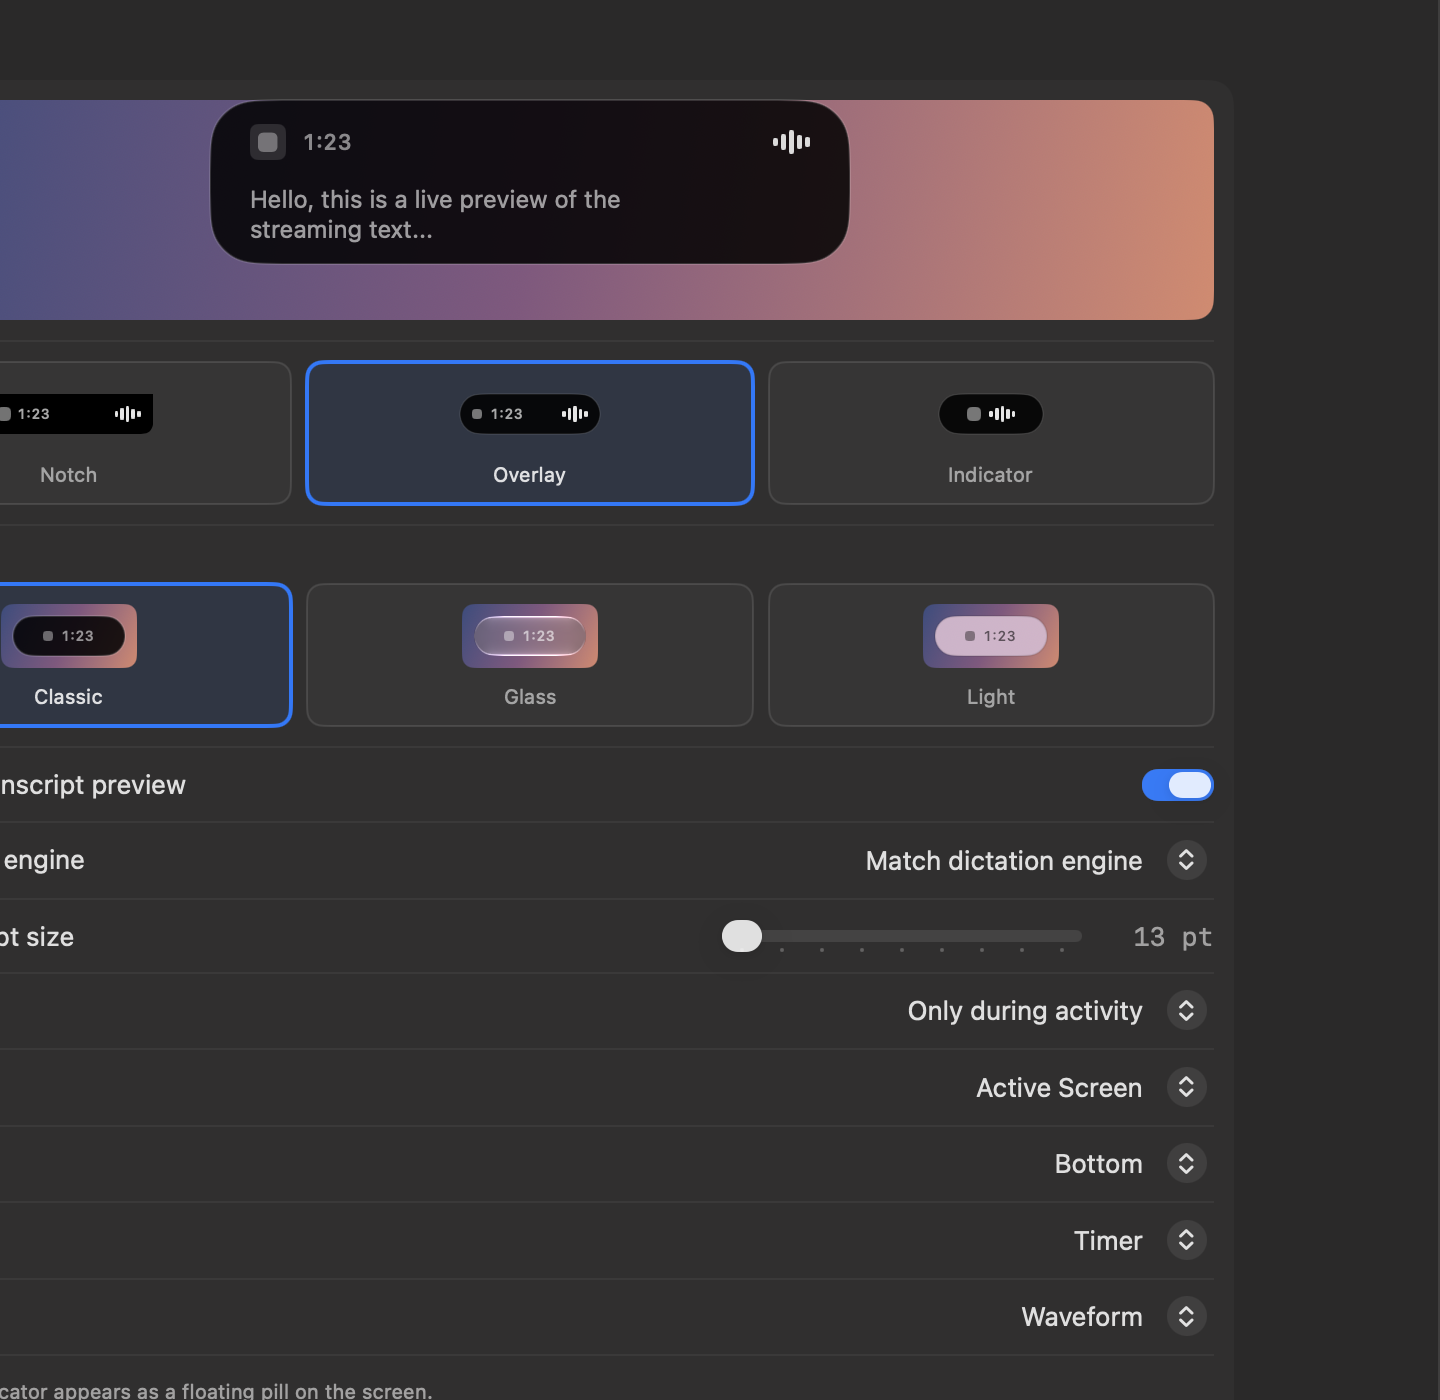
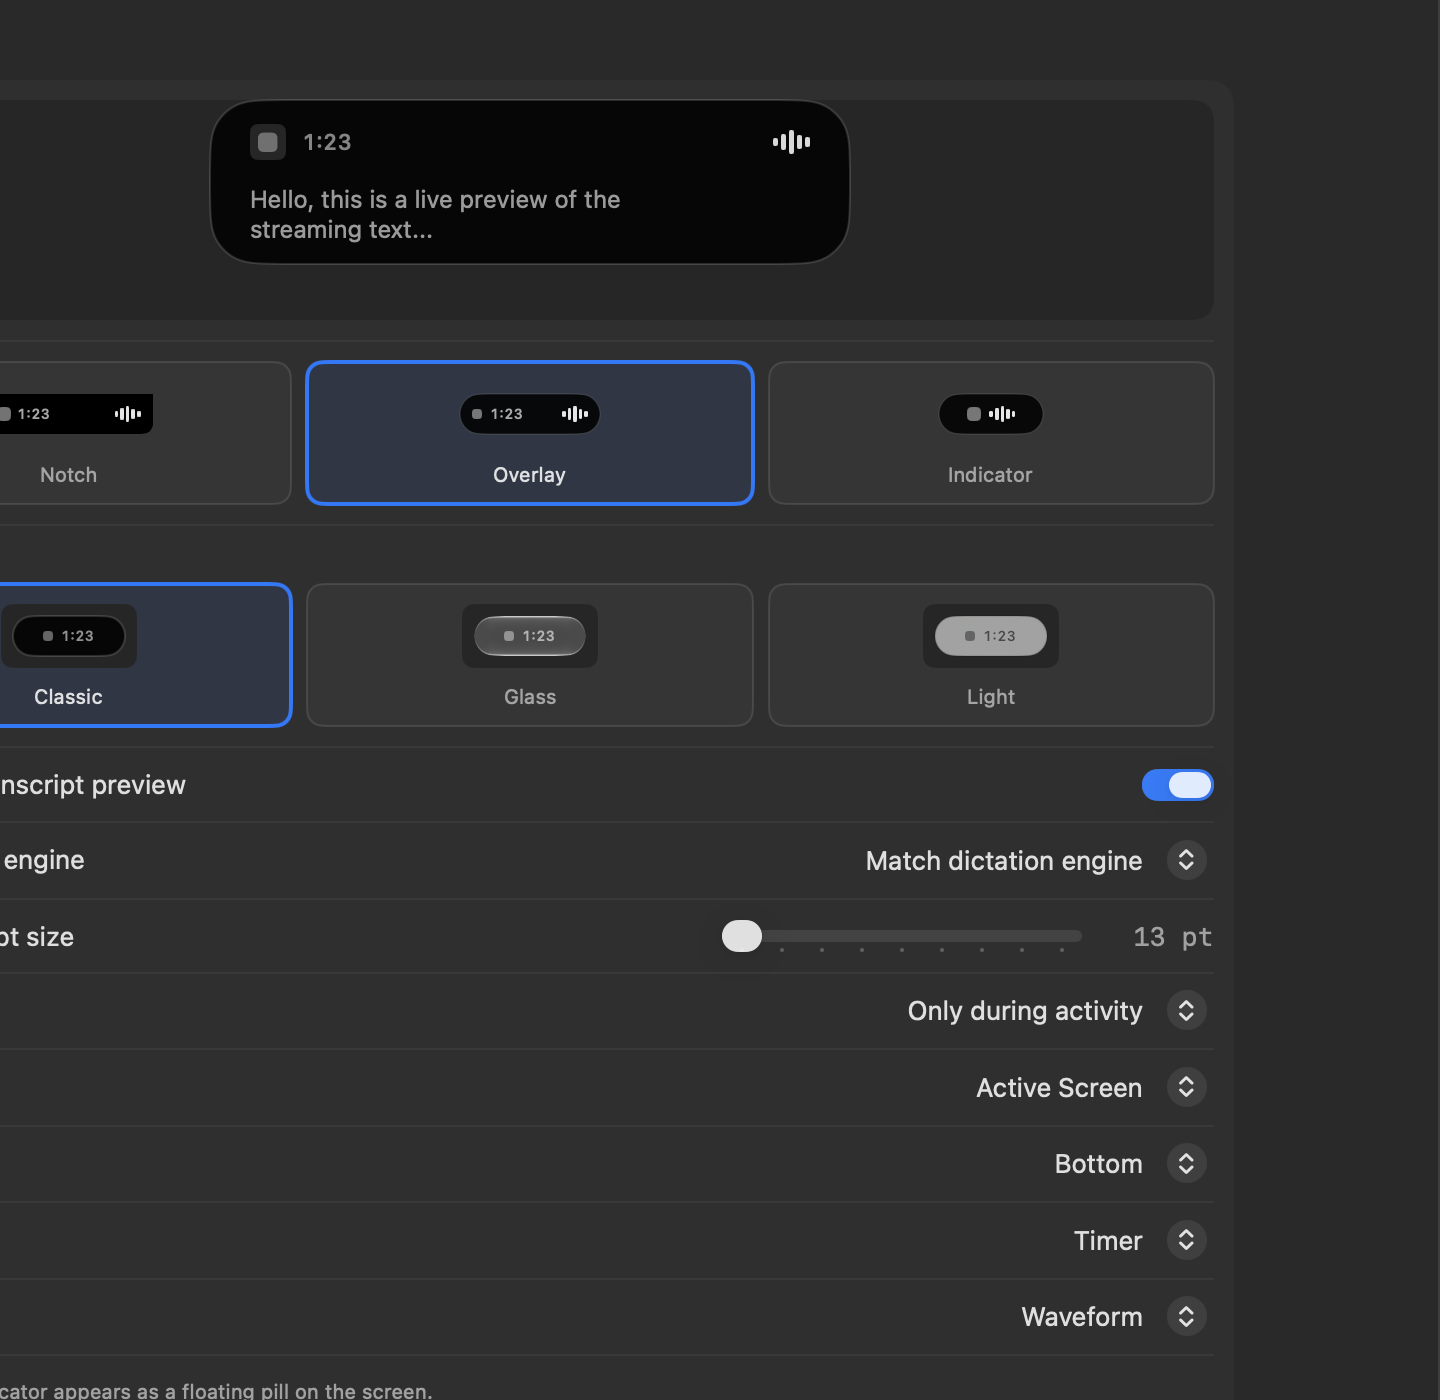
fix: keep the neutral backdrop in the indicator settings preview
The wallpaper-like gradient behind the preview and the theme tiles is
gone again, the preview uses the previous dark gray and the tiles a
matching neutral swatch.

diff --git a/TypeWhisper/Views/IndicatorPreviewView.swift b/TypeWhisper/Views/IndicatorPreviewView.swift
@@ -1,20 +1,5 @@
 import SwiftUI
 
-/// Wallpaper-like backdrop so translucent themes have something to refract.
-enum IndicatorPreviewBackdrop {
-    static var gradient: LinearGradient {
-        LinearGradient(
-            colors: [
-                Color(red: 0.22, green: 0.30, blue: 0.50),
-                Color(red: 0.52, green: 0.34, blue: 0.50),
-                Color(red: 0.86, green: 0.53, blue: 0.42),
-            ],
-            startPoint: .topLeading,
-            endPoint: .bottomTrailing
-        )
-    }
-}
-
 struct IndicatorPreviewView: View {
     @ObservedObject private var dictation = DictationViewModel.shared
     @Environment(\.colorScheme) private var systemColorScheme
@@ -102,7 +87,7 @@ struct IndicatorPreviewView: View {
     var body: some View {
         ZStack(alignment: .top) {
             RoundedRectangle(cornerRadius: 10, style: .continuous)
-                .fill(IndicatorPreviewBackdrop.gradient)
+                .fill(Color(white: 0.15))
 
             Group {
                 if dictation.indicatorStyle == .notch {
@@ -380,7 +365,7 @@ struct IndicatorThemePicker: View {
         .indicatorSurface(theme: theme, shape: Capsule())
         .environment(\.colorScheme, theme.preferredColorScheme ?? systemColorScheme)
         .padding(6)
-        .background(IndicatorPreviewBackdrop.gradient, in: RoundedRectangle(cornerRadius: 6, style: .continuous))
+        .background(Color(white: 0.15), in: RoundedRectangle(cornerRadius: 6, style: .continuous))
     }
 }
 
